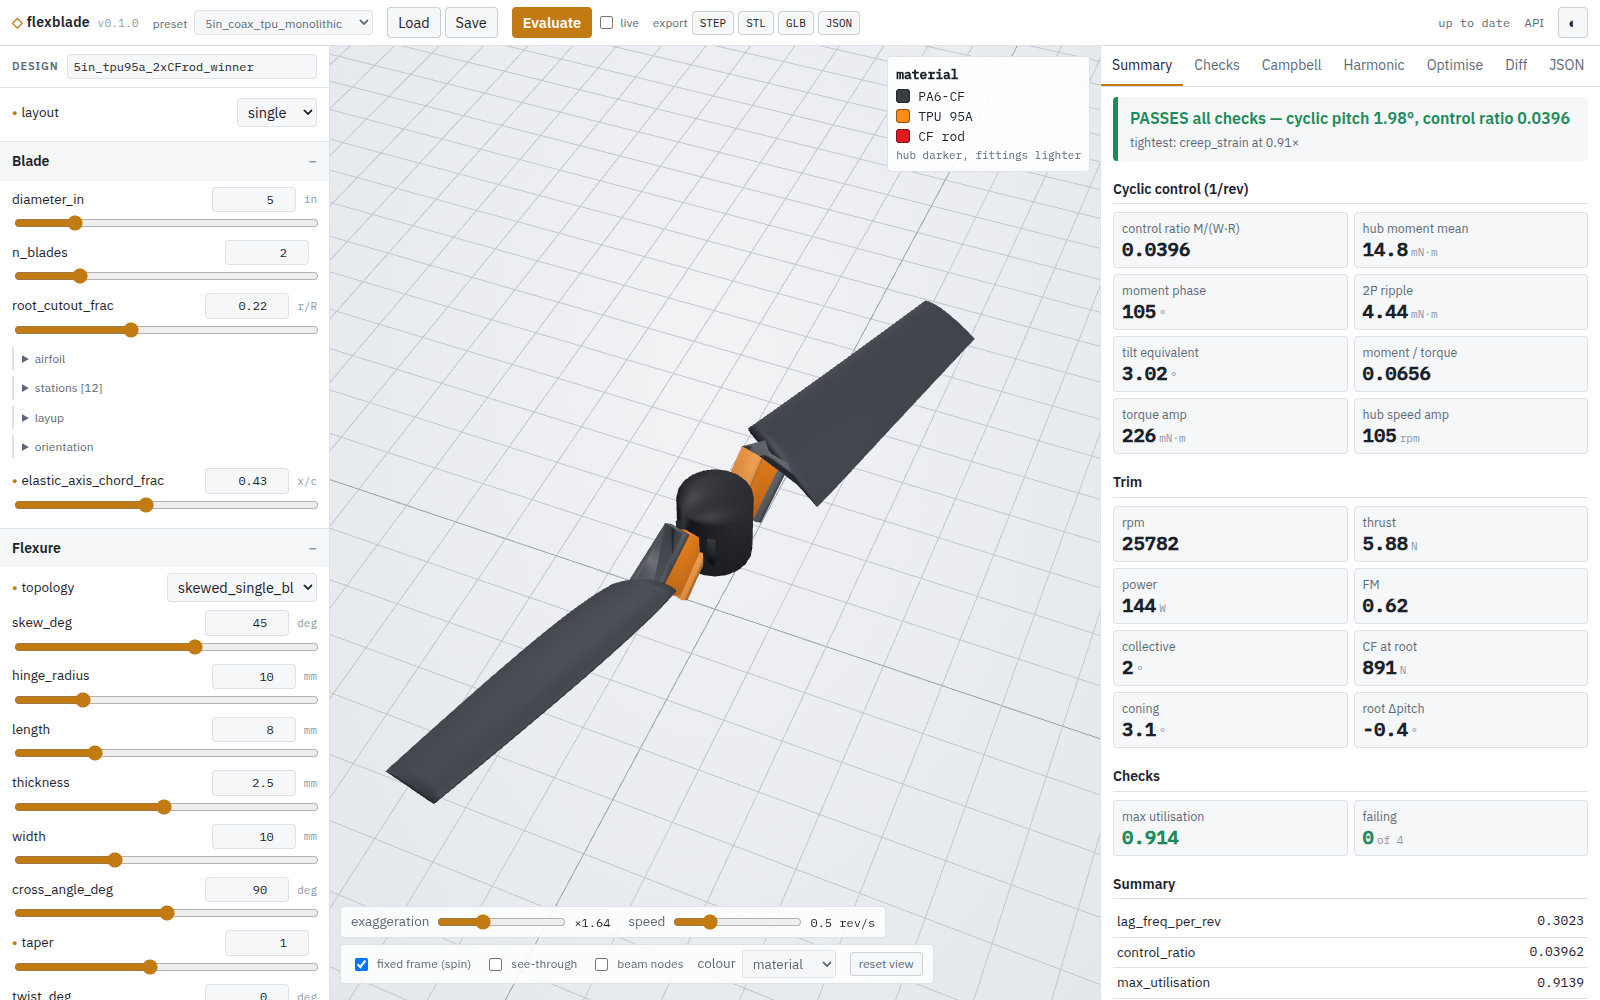
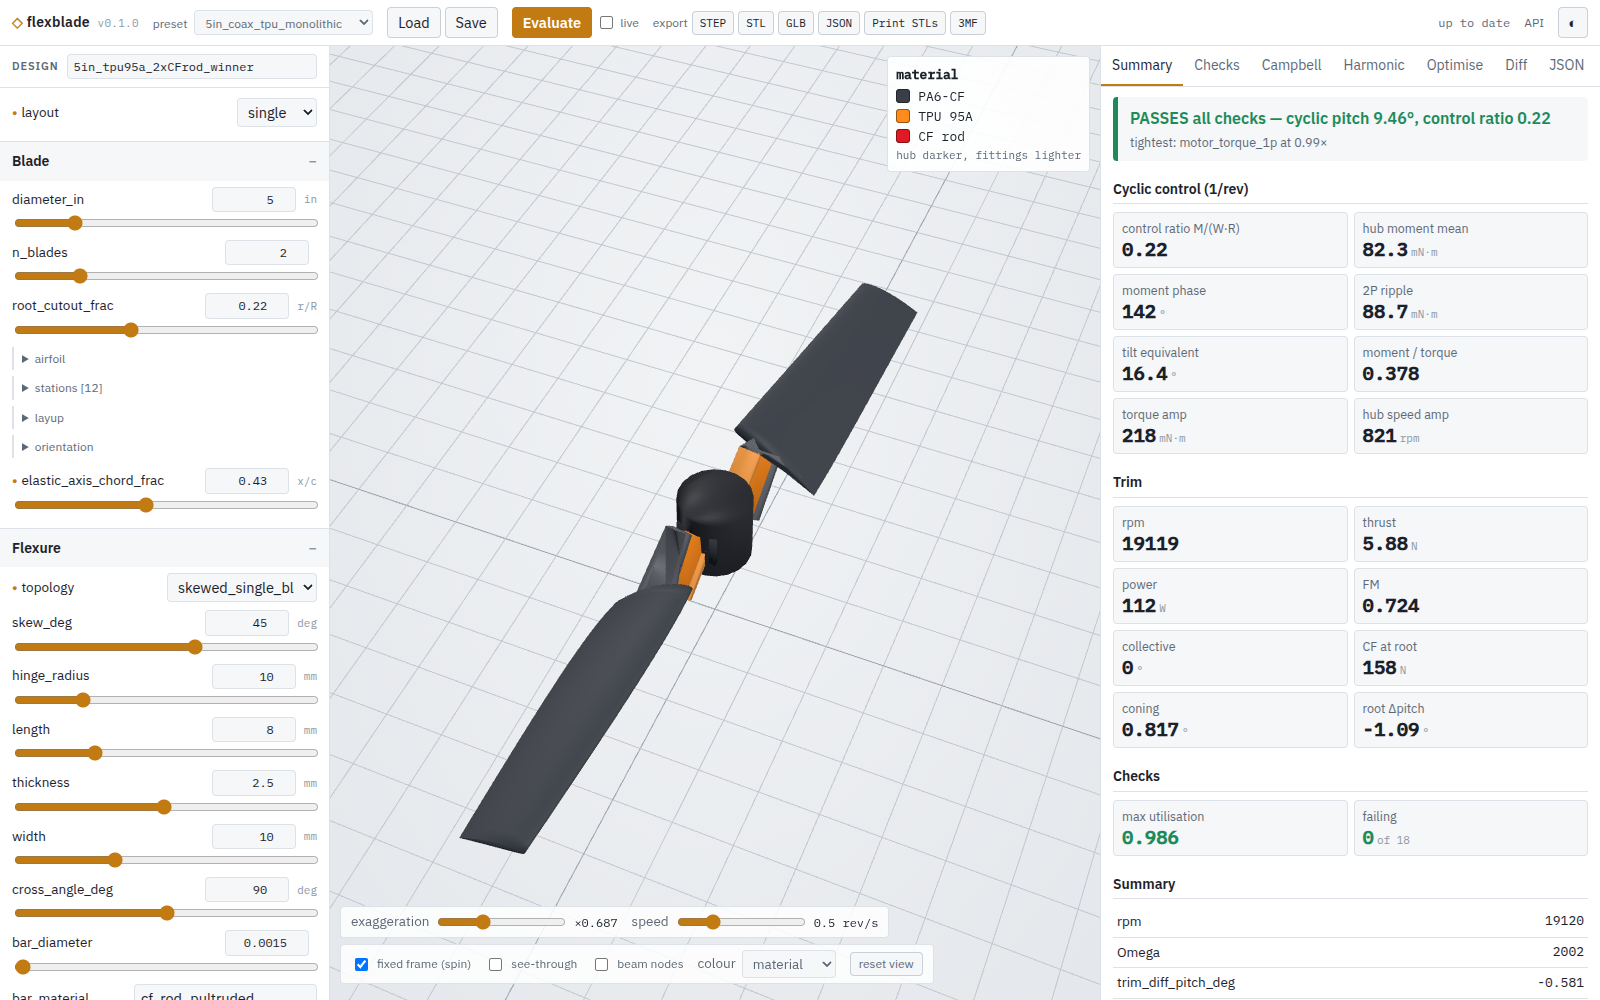
flexblade gui: drop duplicate see-through toggle; live screenshots of 5in rod winner

diff --git a/flexblade/flexblade/gui/static/index.html b/flexblade/flexblade/gui/static/index.html
@@ -60,7 +60,6 @@
         <label class="toggle"><input type="checkbox" id="rotating" checked> fixed frame (spin)</label>
         <label class="toggle"><input type="checkbox" id="see-through"> see-through</label>
         <label class="toggle"><input type="checkbox" id="show-nodes"> beam nodes</label>
-        <label class="toggle" title="make outer shells transparent so rods/inserts are visible"><input type="checkbox" id="xray"> see-through</label>
         <label>colour <select id="colour-by"><option value="material">material</option><option value="util">utilisation</option></select></label>
         <button id="btn-reset-view" class="small">reset view</button>
       </div>

diff --git a/flexblade/flexblade/gui/static/js/app.js b/flexblade/flexblade/gui/static/js/app.js
@@ -204,7 +204,6 @@ function wireViewerControls() {
   $('#show-nodes').onchange = (e) => (v.showNodes = e.target.checked);
   $('#see-through').onchange = (e) => v.setSeeThrough(e.target.checked);
   $('#colour-by').onchange = (e) => { v.colourBy = e.target.value; v.recolour(); renderLegend(S.lastGeo); };
-  $('#xray').onchange = (e) => v.setXray(e.target.checked);
   $('#btn-reset-view').onclick = () => v.resetView();
   v.rotating = $('#rotating').checked;
   v.showNodes = $('#show-nodes').checked;
